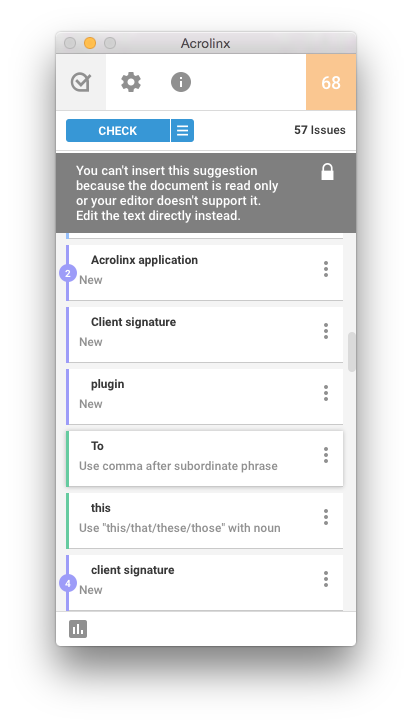
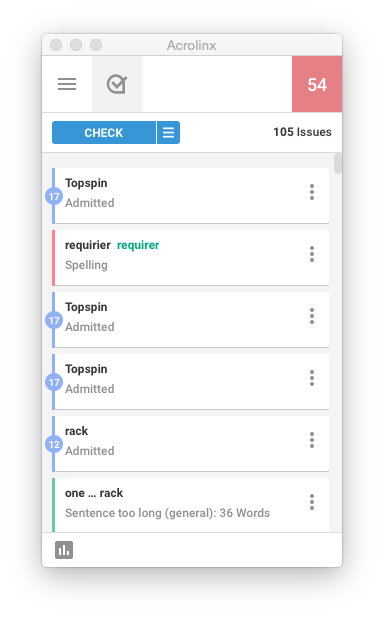
added highlight replacement and updated readme

Changed region(s): [[0.0938, 0.0308, 0.9062, 0.9238]]

diff --git a/AcrolinxPluginSamples/AcrolinxPluginTextEdit/AcrolinxPluginTextEdit/AcrolinxPluginTextEdit.m b/AcrolinxPluginSamples/AcrolinxPluginTextEdit/AcrolinxPluginTextEdit/AcrolinxPluginTextEdit.m
@@ -2,17 +2,38 @@
 //  AcrolinxPluginTextEdit.m
 //  AcrolinxPluginTextEdit
 //
-//  Created by Persistent on 22/08/16.
+//  Created by Puneet Sanchiher on 22/08/16.
 //  Copyright (c) 2016 Acrolinx GmbH. All rights reserved.
 //
 
 #import "AcrolinxPluginTextEdit.h"
 #import "TextEdit.h"
 
+NSString *const kHighlightTextScriptFormat = @"\
+tell application \"TextEdit\" \n\
+    activate \n\
+    set color of front document to {0, 0, 0} \n\
+    set color of characters %lu thru %lu of text of front document to {51834, 8835, 2732} \n\
+end tell";
+
+NSString *const kReplaceTextScriptFormat = @"\
+tell application \"TextEdit\" \n\
+    set startIndex to %lu + 1\n\
+    set endIndex to %lu + 1 \n\
+    set replacement to \"%@\" \n\
+    activate \n\
+    repeat with k from endIndex to startIndex + 1  by -1 \n\
+        delete character k of text of front document \n\
+    end repeat \n\
+    set character startIndex of text of front document to replacement \n\
+    set color of front document to {0, 0, 0} \n\
+end tell";
+
 @interface AcrolinxPluginTextEdit () <AcrolinxPluginProtocol, AcrolinxSidebarDelegate>
 
 @property (nonatomic, retain) NSString *ownFilePath;
 @property (nonatomic, retain) AcrolinxPollingProxy *activeDocumentPollingProxy;
+@property (nonatomic, retain) IndexStore *indexStore;
 
 @end
 
@@ -35,6 +56,16 @@ static TextEditApplication *textEditApplication;
     }
     return textEditApplication;
 }
+
+- (IndexStore *)indexStore {
+    @synchronized (self) {
+        if (!_indexStore) {
+            _indexStore = [IndexStore indexStore];
+        }
+        return _indexStore;
+    }
+}
+
 
 #pragma mark internal implementation
 
@@ -159,21 +190,18 @@ static TextEditApplication *textEditApplication;
 
 - (void)startGlobalCheck {
     dispatch_async_main(^{
-        NSError *error;
-        NSString *fileContents = [NSString stringWithContentsOfFile:[self ownFilePath] encoding:NSUTF8StringEncoding error:&error];
+        NSString *fileContents = [[[[[self textEditApplication] documents] objectAtIndex:0] properties] valueForKey:@"text"];
         
-        if (error) {
-            NSLog(@"Error reading file: %@", error.localizedDescription);
-            return;
-        }
-
+        // Reset index store for every check
+        _indexStore = nil;
+        
         [[[self sidebarController] JSInterface] performGlobalCheck:fileContents];
     });
 
 }
 
 - (void)fileDidSave {
-    //If you want any acion on file save
+    //If you want any action on file save
 }
 
 #pragma mark - AcrolinxSidebarDelegate
@@ -181,8 +209,8 @@ static TextEditApplication *textEditApplication;
     
     NSMutableDictionary *sidebarOptions = [self createSidebarOptionsForPlugin];
     
-    // parameter for readonly sidebar
-    [sidebarOptions setValue:@"true" forKey:@"readOnlySuggestions"];
+    // Parameter to make the sidebar readonly.
+    //[sidebarOptions setValue:@"true" forKey:@"readOnlySuggestions"];
     
     [[[self sidebarController] JSInterface] initializeSidebarWithOptions:sidebarOptions];
 }
@@ -192,12 +220,70 @@ static TextEditApplication *textEditApplication;
 }
 
 - (void)sidebarDidSelectWithMatches:(NSArray *)matches {
-    LLog(@"It's a read only side bar");
+    
+    /**
+     * Here a plug-in typically tries to map the ranges represented by 'matches' into actual content. 
+     * Then using selection API exposed by the editor it highlights appropriate ranges.
+     *
+     * Since TextEdit doesn't provide any such API, following code uses a script which changes the color of the relevant text range.
+     *
+     * This code assumes that there has not been any manual edits in the text after the check was run. Use of IndexStore makes sure 
+     * that text offset changes due to any replacements done through sidebarDidReplaceWithReplacements are accounted for.
+     *
+     */
+    
+    NSUInteger unshiftedStartOfRange = [[[[matches firstObject] objectForKey:@"range"] firstObject] unsignedIntegerValue];
+    NSUInteger unshiftedEndOfRange = [[[[matches lastObject] objectForKey:@"range"] lastObject] unsignedIntegerValue];
+    
+    NSUInteger startOfRange = [[self indexStore] shiftedIndex:unshiftedStartOfRange];
+    NSUInteger endOfRange = startOfRange + (unshiftedEndOfRange - unshiftedStartOfRange);
+    
+    NSString *highlightTextScript = [NSString stringWithFormat:kHighlightTextScriptFormat, (unsigned long)startOfRange, (unsigned long)endOfRange];
+    
+    NSDictionary *errorDict;
+    NSAppleScript *script = [[NSAppleScript alloc] initWithSource:highlightTextScript];
+    NSAppleEventDescriptor *theResult = [script executeAndReturnError:&errorDict];
+    if (!theResult) {
+        LLog(@"Script to highlight text returned error: %@", [errorDict valueForKey:@"NSAppleScriptErrorBriefMessage"]);
+        return ;
+    }
+    
+    [[self textEditApplication] activate];
     return;
 }
 
 - (id)sidebarDidReplaceWithReplacements:(NSArray *)replacements {
-    LLog(@"It's a read only side bar");
+    
+    /*
+    * This code assumes that there has not been any manual edits in the text after the check was run. Use of IndexStore makes sure that
+    * text offset changes due to any replacements done through sidebarDidReplaceWithReplacements are accounted for.
+    */
+
+    for (NSDictionary *replacement in replacements) {
+        LLog(@"rplcmnt: %@", replacement);
+        
+        NSUInteger unshiftedStartOfRange = [[[replacement objectForKey:@"range"] firstObject] unsignedIntegerValue];
+        NSUInteger unshiftedEndOfRange = [[[replacement objectForKey:@"range"] lastObject] unsignedIntegerValue];
+        
+        NSUInteger startOfRange = [[self indexStore] shiftedIndex:unshiftedStartOfRange];
+        NSUInteger endOfRange = startOfRange + (unshiftedEndOfRange - unshiftedStartOfRange) -1;
+        NSString *replacementString = [replacement objectForKey:@"replacement"];
+        
+        NSString *replaceTextScript = [NSString stringWithFormat:kReplaceTextScriptFormat,
+                                         (unsigned long)startOfRange, (unsigned long)endOfRange, replacementString];
+        
+        NSDictionary *errorDict;
+        NSAppleScript *script = [[NSAppleScript alloc] initWithSource:replaceTextScript];
+        NSAppleEventDescriptor *theResult = [script executeAndReturnError:&errorDict];
+        if (!theResult) {
+            LLog(@"Script to replace text returned error: %@", [errorDict valueForKey:@"NSAppleScriptErrorBriefMessage"]);
+            return nil;
+        }
+        
+        [[self indexStore] addShiftingIndex:unshiftedStartOfRange withShiftingWidth:([replacementString length] - (endOfRange - startOfRange + 1))];
+
+    }
+
     return replacements;
 }
 

diff --git a/AcrolinxPluginSamples/AcrolinxPluginTextEdit/AcrolinxPluginTextEdit/AcrolinxPluginTextEdit.h b/AcrolinxPluginSamples/AcrolinxPluginTextEdit/AcrolinxPluginTextEdit/AcrolinxPluginTextEdit.h
@@ -2,7 +2,7 @@
 //  AcrolinxPluginTextEdit.h
 //  AcrolinxPluginTextEdit
 //
-//  Created by Persistent on 22/08/16.
+//  Created by Puneet Sanchiher on 22/08/16.
 //  Copyright (c) 2016 Acrolinx GmbH. All rights reserved.
 //
 

diff --git a/README.md b/README.md
@@ -1,11 +1,12 @@
 #Acrolinx OS X Sidebar Demo  
+Demo code for an integration of the Acrolinx sidebar for a Mac OS X Application.
 
 ##Acrolinx Plugin Framework 
 
 
 Acrolinx for Mac application can be used to check content of document open in an editor like Microsoft Word for Mac. For Acrolinx to be able to check it requires an Acrolinx Plugin written for particular target application. 
 
-`AcrolinxPlugin.framework` helps develop Acrolinx plugin for different target applications. 
+`AcrolinxPlugin.framework` helps develop Acrolinx plugin for different target applications. The framework is available with this sample code in folder `AcrolinxPluginSDKForMac`
 
 ##Sample - Acrolinx Plugin for TextEdit
 
@@ -14,21 +15,21 @@ The sample shows how to use `AcrolinxPlugin.framework` for creating an acrolinx 
 
 ##Prerequisite
 
+Please contact Acrolinx SDK support (sdk-support@acrolinx.com) for consulting and getting your integration certified. This sample works with a test license on an internal acrolinx server. This license is only meant for demonstration and developing purposes. Once you finished your integration you'll have to get a license for your integration from Acrolinx.
 
 To build and run the sample you need the following:
 
 * Acrolinx application (min version 1.4.0.613)
 * Test server credentials
-* Client signature(explained in “Configuration for Sample Plugin” section)
 
 For writing new plugin you also need:
 
-* AcrolinxPlugin.framework.
+* AcrolinxPlugin.framework. 
 
 
 ##Configuration for Sample Plugin
 
-The Acrolinx Server checks if a connecting client is allowed to connect. To enable this you must provide a valid client signature. First obtain a client signature from Acrolinx. To enter new client signature in the code open `AcrolinxPluginTextEdit.xcodeproject`. Navigate to `AcrolinxPluginTextEdit.m`,  Find method `clientSignature` and edit the value to return the client signature you obtained from Acrolinx. 
+The Acrolinx Server checks if a connecting client is allowed to connect. To enable this the sample code includes a valid client signature. To enter new client signature in the code open `AcrolinxPluginTextEdit.xcodeproject`. Navigate to `AcrolinxPluginTextEdit.m`,  Find method `clientSignature` and edit the value to return the client signature you obtained from Acrolinx. 
 
 
 ##Build and Run Sample Plugin
@@ -37,7 +38,7 @@ The Acrolinx Server checks if a connecting client is allowed to connect. To enab
 Following are the steps to build and run the sample plugin. 
 
 * Open AcrolinxPluginTextEdit.xcodeproject and build the project in Xcode.
-* Put the output file AcrolinxPluginTextEdit.acpl to user’s PlugIns folder `(“~/Users/persistent/Library/Application Support/PluginIns”)`
+* Put the output file AcrolinxPluginTextEdit.acpl to user’s PlugIns folder `(“~/Library/Application Support/PluginIns”)`
 * Run Acrolinx application. 
 * In preferences give valid Acrolinx server URL.
 
@@ -46,6 +47,7 @@ Following are the steps to build and run the sample plugin.
 ![Preference Screen](./doc/PreferenceWithValidServer.png)
 
 * Open a TextEdit document, new documents must be saved once for the Acrolinx Plugin to identify it. 
+* Optionally you can open the sample document topspin.txt. It can be found in "acrolinx-sidebar-demo-osx/doc" folder. 
 * While TextEdit is the active application go to Acrolinx menu and select “Show Sidebar”. "Show Sidebar" menu is enabled only if the file extension is .txt or .rtf
 
 ![Show Sidebar Menu](./doc/AcrolinxMenu.png)
@@ -54,26 +56,33 @@ Following are the steps to build and run the sample plugin.
 
 ![Sidebar Login Screen](./doc/SidebarLogin.png)
 
-![Sidebar Login Screen](./doc/SidebarLoaded.png)
+![Sidebar after login](./doc/SidebarLoaded.png)
 
 * When sidebar is loaded run a check.
 
-![Sidebar Login Screen](./doc/SidebarAfterCheck.png)
+![Sidebar after check](./doc/SidebarAfterCheck.png)
+
+* Clicking a card in sidebar highlights corresponding text in the document. 
+![Highlight](./doc/Highlight.png)
+
+* Clicking on the suggestion replaces the text in document. 
+
+Note if the document has been changed manually then the check must be run again for highlight and replace to work properly. 
 
 #Writing new Acrolinx Sidebar Plugin
 
 ##Prerequisite
 
-For writing new Acrolinx plugin for a target application you need:
+For writing Acrolinx plugin for  an application you need:
 
 * Acrolinx application (min version 1.4.0.613)
 * Test server credentials
 * Client signature
-* AcrolinxPlugin.framework.
+* AcrolinxPlugin.framework. The framework is available with this sample code in folder `AcrolinxPluginSDKForMac`.
 
 You should also know:
 
-* Target applications’s bundle identifier
+* The bundle identifier of the application for which Acrolinx Plugin is to be written. Bundle identifier can be found in the info.plist file inside the application's bundle.
 * Way to find list of open documents and identifying active document. Acrolinx application creates sidebar for particular document. The plugin should keep track of the document it is associated with.
 * Way to extract document content.
 * Way to highlight and replace text in given range.
@@ -111,8 +120,8 @@ class `isSubclassOfClass` `AcrolinxPlugin` also it `conformsToProtocol` `Acrolin
     
     NSMutableDictionary *sidebarOptions = [self createSidebarOptionsForPlugin];
     
-    // parameter for read-only sidebar
-    [sidebarOptions setValue:@"true" forKey:@"readOnlySuggestions"];
+    // Parameter to make the sidebar readonly.
+    //[sidebarOptions setValue:@"true" forKey:@"readOnlySuggestions"];
     
     [[[self sidebarController] JSInterface] initializeSidebarWithOptions:sidebarOptions];
 }
@@ -130,7 +139,6 @@ class `isSubclassOfClass` `AcrolinxPlugin` also it `conformsToProtocol` `Acrolin
 ```
 [[[self sidebarController] JSInterface] performGlobalCheck:stringExtractedFromEditor];
 ``` 
-* Plugin may build a lookup data here. 
 
 ###Lookup
 
@@ -141,7 +149,7 @@ class `isSubclassOfClass` `AcrolinxPlugin` also it `conformsToProtocol` `Acrolin
 * The plugin should map these ranges to actual ranges in the document and interact with editor to perform highlight or replacement operation.
 
 ##Framework Reference
-Refer AcrolinxPluginSDKForMac/com.acrolinx.AcrolinxPlugin-Framework.docset for the class reference.
+Refer doc/com.acrolinx.AcrolinxPlugin-Framework.docset for the class reference.
 
 
 ## License
